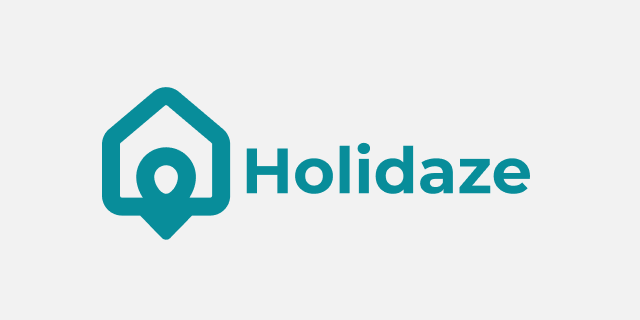
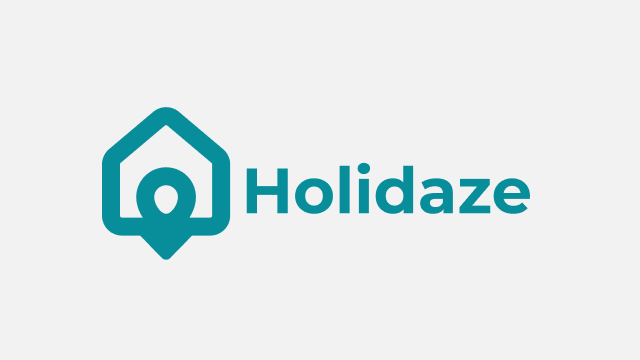
feat: adds body to subwindow projects

diff --git a/src/assets/panels.module.css b/src/assets/panels.module.css
@@ -189,6 +189,42 @@
     min-width: 0;
 }
 
+.detailLink {
+    display: flex;
+    align-items: center;
+    justify-content: space-between;
+    padding: 0.7rem 0.9rem;
+    border: 1px solid var(--border);
+    text-decoration: none;
+    color: var(--text-dim);
+    font-size: 0.8rem;
+    letter-spacing: 0.08em;
+    margin-top: 8px;
+    transition:
+        color 0.2s,
+        border-color 0.2s,
+        background 0.2s;
+    background: rgba(0, 255, 136, 0.01);
+}
+
+.detailLink:hover {
+    color: var(--green);
+    border-color: var(--green-dim);
+    background: rgba(0, 255, 136, 0.04);
+}
+
+.detailLinkArrow {
+    color: var(--green-dim);
+    transition:
+        transform 0.2s,
+        color 0.2s;
+}
+
+.detailLink:hover .detailLinkArrow {
+    transform: translateX(4px);
+    color: var(--green);
+}
+
 .contactRow {
     display: flex;
     align-items: center;

diff --git a/src/assets/SubWindow.jsx b/src/assets/SubWindow.jsx
@@ -2,8 +2,6 @@ import { useRef, useEffect, useState } from "react";
 import { playCloseSound, playHoverSound } from "../utils/soundEffects";
 import styles from "./SubWindow.module.css";
 
-import previewImage from "../../favicon.png";
-
 export default function SubWindow({
     id,
     title,
@@ -11,7 +9,6 @@ export default function SubWindow({
     x,
     y,
     zIndex,
-    image,
     onClose,
     onFocus,
     onMove,
@@ -31,8 +28,6 @@ export default function SubWindow({
         window.addEventListener("resize", handleResize);
         return () => window.removeEventListener("resize", handleResize);
     }, []);
-
-    const previewSrc = image || previewImage;
 
     const handleClose = () => {
         playCloseSound();
@@ -142,14 +137,6 @@ export default function SubWindow({
                         title="Close"
                     />
                 </div>
-            </div>
-
-            <div className={styles.imageWrapper}>
-                <img
-                    src={previewSrc}
-                    className={styles.windowImage}
-                    alt="window preview"
-                />
             </div>
 
             <div className={styles.body}>{children}</div>

diff --git a/src/assets/panels.jsx b/src/assets/panels.jsx
@@ -112,6 +112,7 @@ const PROJECTS = [
         title: "Espen Rognlien og Strengelauget",
         stack: "React · JavaScript · Node.js",
         desc: "Band website for Espen Rognlien og Strengelauget. Norwegian Americana & Country-folk style with a hint of Johnny Cash.",
+        body: "A custom-built site for a Norwegian Americana/country-folk act, designed to feel as warm and analog as the music itself. Built with React on the frontend and a small Node.js backend for handling show listings and contact requests. Focused on fast load times and a clean, music-forward layout that puts tour dates and embedded tracks front and center.",
         href: "https://strengelauget.netlify.app/",
         image: strengelaugetImage,
     },
@@ -120,6 +121,7 @@ const PROJECTS = [
         title: "fuglehjelpen.no",
         stack: "React · JavaScript · Node.js",
         desc: "fuglehjelpen.no is the website of Fuglehjelpen, a Norwegian non-profit that helps injured and sick birds.",
+        body: "The official website for Fuglehjelpen, a Norwegian non-profit dedicated to rescuing and rehabilitating injured or sick birds. Built to be approachable for non-technical volunteers to update, with clear calls to action for reporting an injured bird and donating. Performance and accessibility were priorities given the broad, non-technical audience the site serves.",
         href: "https://fuglehjelpen.no/",
         image: fuglehjelpenImage,
     },
@@ -128,6 +130,7 @@ const PROJECTS = [
         title: "Double-click deposit worn items",
         stack: "Java",
         desc: "Double-Click Deposit Worn Items is a RuneLite plugin designed to prevent accidental depositing of worn equipment when using the bank interface.",
+        body: "A small but widely-used RuneLite plugin written in Java, published on the official Plugin Hub. Solves a real, recurring annoyance for players: accidentally depositing equipped items while banking. Required digging into RuneLite's plugin API and event hooks to intercept the right interface actions cleanly without interfering with normal banking behavior.",
         href: "https://runelite.net/plugin-hub/show/double-click-deposit-worn-items",
         image: runeliteImage,
     },
@@ -136,6 +139,7 @@ const PROJECTS = [
         title: "Platfolio",
         stack: "Three.JS · JavaScript",
         desc: "3D portfolio test. First time using Three.js to create a fully 3D environment that could be explored to find my other projects.",
+        body: "An experimental 3D portfolio built to learn Three.js from the ground up. Visitors navigate a fully explorable 3D environment where other projects are represented as physical objects in the scene. Tackled camera controls, lighting, and performance optimization for web-based WebGL for the first time — a useful proof of concept for combining 3D web experiences with practical portfolio content.",
         href: "https://jnet-platfolio.netlify.app/",
         image: platfolioImage,
     },
@@ -144,6 +148,7 @@ const PROJECTS = [
         title: "Holidaze - Venue booking website",
         stack: "React · TailwindCSS · JavaScript",
         desc: "Holidaze, exam project booking website. User authentication, venue creation and management, personal profile and interactive booking calendars.",
+        body: "An exam project simulating a real-world venue booking platform. Implements full user authentication, venue creation and management for hosts, personal profile pages, and an interactive booking calendar with date-range selection. Built with React and TailwindCSS, with a strong focus on handling realistic edge cases like booking conflicts and role-based permissions between regular users and venue managers.",
         href: "https://jnet-holidaze.netlify.app/",
         image: holidazeImage,
     },
@@ -152,6 +157,7 @@ const PROJECTS = [
         title: "Anemic Heroes",
         stack: "React · TailwindCSS · JavaScript · Home-made API",
         desc: "Anemic Heroes is a group project test to see how well we could work together as a team. Creativity with difficult problemsolving and a (way too) hard game.",
+        body: "A group project built to test collaborative workflow as much as the game itself. Paired a React/Tailwind frontend with a home-made API to handle game state and logic. The brief leaned into difficulty and creative problem-solving over polish — the result is a notoriously hard but mechanically interesting game, and a good case study in working as a team under a tight deadline.",
         href: "https://anemic-heroes.netlify.app/",
         image: anemicHeroesImage,
     },
@@ -160,6 +166,7 @@ const PROJECTS = [
         title: "Zork Remake",
         stack: "JavaScript · Solo project",
         desc: "A remake of the classic game Zork. Text commands to explore the environment in a text based game. First solo project as I was learning JavaScript",
+        body: "A from-scratch remake of the classic text adventure Zork, built solo while first learning JavaScript. Players type commands to explore rooms, interact with objects, and solve simple puzzles, parsed through a custom-built text command interpreter. As an early solo project, it was as much about learning core JavaScript fundamentals — state management, parsing, control flow — as it was about the game itself.",
         href: "https://jnettli-zork-remake.netlify.app/",
         image: zorkImage,
     },
@@ -220,8 +227,10 @@ export function ProjectDetail({ project }) {
                     href={project.href}
                     target="_blank"
                     rel="noopener noreferrer"
+                    onMouseEnter={playHoverSound}
                 >
-                    view project →
+                    <span>View Project</span>
+                    <span className={styles.detailLinkArrow}>↗</span>
                 </a>
             )}
         </div>

diff --git a/src/assets/window.jsx b/src/assets/window.jsx
@@ -218,7 +218,7 @@ export default function Window({ visible, onOpenProject }) {
                                     aria-label="Volume"
                                 />
                             </label>
-                            <span>v1.2.1</span>
+                            <span>v1.2.12</span>
                         </div>
                     </div>
                 </div>